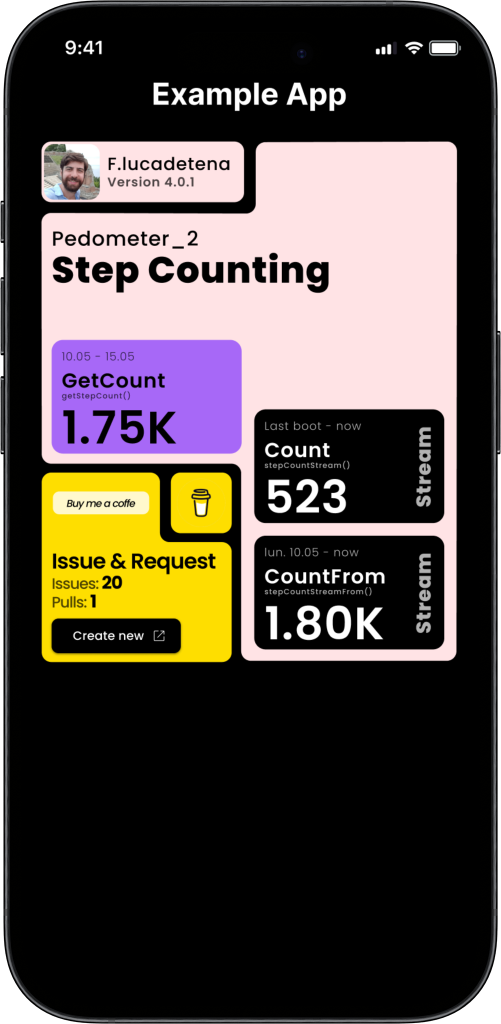
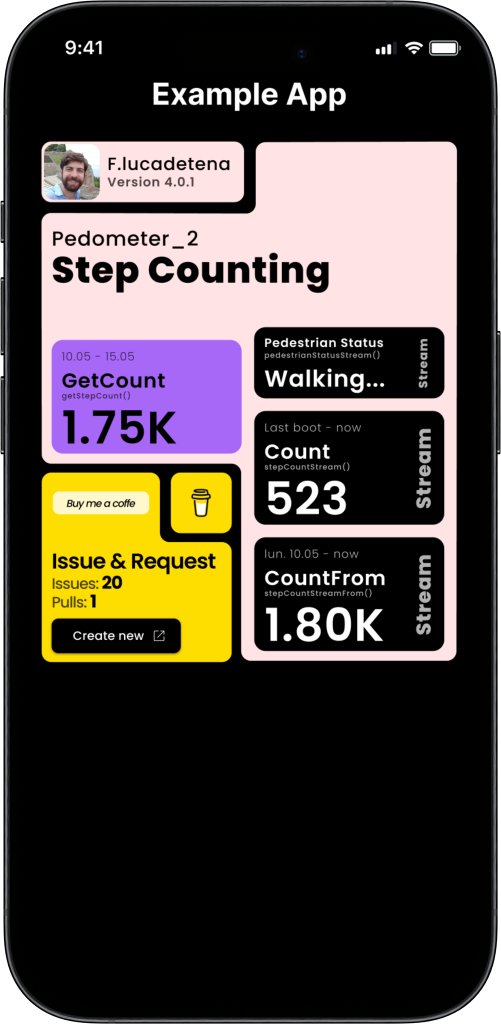
updated example app, added new pedestrianStatus func to the example. Updated the name of that function.

Changed region(s): [[0.509, 0.3125, 0.8982, 0.6562]]

diff --git a/lib/pedometer_2.dart b/lib/pedometer_2.dart
@@ -4,7 +4,7 @@ import 'dart:io' show Platform;
 import 'package:flutter/foundation.dart';
 import 'package:flutter/services.dart';
 
-enum StepStatus {
+enum PedestrianStatus {
   stopped,
   walking,
   unknown,
@@ -16,7 +16,7 @@ enum PedometerMethods {
 
 class Pedometer {
  /// The [EventChannel] for StepStatus events.
-  static EventChannel statusDetectionChannel = const EventChannel('status_detection');
+  static EventChannel pedestrianStatusChannel = const EventChannel('status_detection');
 
   /// The [EventChannel] for step count events.
   static  EventChannel stepCountChannel = const EventChannel('step_count');
@@ -28,26 +28,26 @@ class Pedometer {
   static  MethodChannel methodChannel = const MethodChannel('method_channel');
 
   /// A stream controller for tracking step status on Android.
-  static final StreamController<StepStatus> _androidStepStatusController = StreamController.broadcast();
+  static final StreamController<PedestrianStatus> _androidPedestrianStatusController = StreamController.broadcast();
 
-  /// Returns a stream of [StepStatus] representing the status of steps.
+  /// Returns a stream of [PedestrianStatus] representing the status of steps.
   ///
-  /// The stream emits [StepStatus] values based on the step detection events received from the platform.
+  /// The stream emits [PedestrianStatus] values based on the step detection events received from the platform.
   /// Events are fired every time a step is detected.
   /// On Android, the stream is processed by [_androidStream] before being returned.
   ///
   /// Example usage:
   /// ```dart
   /// Pedometer pedometer = Pedometer();
-  /// Stream<StepStatus> statusStream = pedometer.stepStatusStream();
+  /// Stream<StepStatus> statusStream = pedometer.pedestrianStatusStream();
   /// statusStream.listen((status) {
   ///   print('Step status: $status');
   /// });
   /// ```
-  Stream<StepStatus> stepStatusStream() {
+  Stream<PedestrianStatus> pedestrianStatusStream() {
     try {
-      Stream<StepStatus> stream =
-          statusDetectionChannel.receiveBroadcastStream().map((event) => StepStatus.values[event as int]);
+      Stream<PedestrianStatus> stream =
+          pedestrianStatusChannel.receiveBroadcastStream().map((event) => PedestrianStatus.values[event as int]);
       if (Platform.isAndroid) return _androidStream(stream);
       return stream;
     } catch (e) {
@@ -152,10 +152,10 @@ class Pedometer {
   }
 
   /// Transformed stream for the Android platform
-  static Stream<StepStatus> _androidStream(Stream<StepStatus> stream) {
+  static Stream<PedestrianStatus> _androidStream(Stream<PedestrianStatus> stream) {
     /// Init a timer and a status
     Timer? t;
-    StepStatus? stepStatus;
+    PedestrianStatus? stepStatus;
 
     /// Listen for events on the original stream
     /// Transform these events by using the timer
@@ -168,9 +168,9 @@ class Pedometer {
 
         /// If a previous status was either not set yet, or was 'stopped'
         /// then a 'walking' event should be emitted.
-        if (stepStatus == null || stepStatus == StepStatus.stopped) {
-          _androidStepStatusController.add(StepStatus.walking);
-          stepStatus = StepStatus.walking;
+        if (stepStatus == null || stepStatus == PedestrianStatus.stopped) {
+          _androidPedestrianStatusController.add(PedestrianStatus.walking);
+          stepStatus = PedestrianStatus.walking;
         }
       }
 
@@ -178,14 +178,14 @@ class Pedometer {
       /// which a 'stopped' event is emitted. If it manages to go through,
       /// it is because no events were received for the 2 second duration
       t = Timer(const Duration(seconds: 2), () {
-        _androidStepStatusController.add(StepStatus.stopped);
-        stepStatus = StepStatus.stopped;
+        _androidPedestrianStatusController.add(PedestrianStatus.stopped);
+        stepStatus = PedestrianStatus.stopped;
       });
     }, onError: (error) {
-      _androidStepStatusController.addError(error);
+      _androidPedestrianStatusController.addError(error);
     });
 
-    return _androidStepStatusController.stream;
+    return _androidPedestrianStatusController.stream;
   }
 }
 

diff --git a/README.md b/README.md
@@ -179,7 +179,7 @@ Using Permission handler you need to: (adapt for other packages)
     - When the stream is initialized it may not fire a result until the status changes. So assume the user is stopped from start as it will fire every 1/2 seconds.
         #### Example:
         ````dart
-        StreamSubscription? _subStepStatus;
+        StreamSubscription? _subPedestrianStatus;
 
         @override
         void initState() {
@@ -189,12 +189,12 @@ Using Permission handler you need to: (adapt for other packages)
 
         @override
         void dispose() {
-            _subStepStatus?.cancel();
+            _subPedestrianStatus?.cancel();
             super.dispose();
         }
 
         _listenToStatus() {
-            _subStepStatus = Pedometer().stepStatusStream().listen((status) => print('Status: $status'));
+            _subPedestrianStatus = Pedometer().pedestrianStatusStream().listen((status) => print('Status: $status'));
         }
         ````
     </details>
